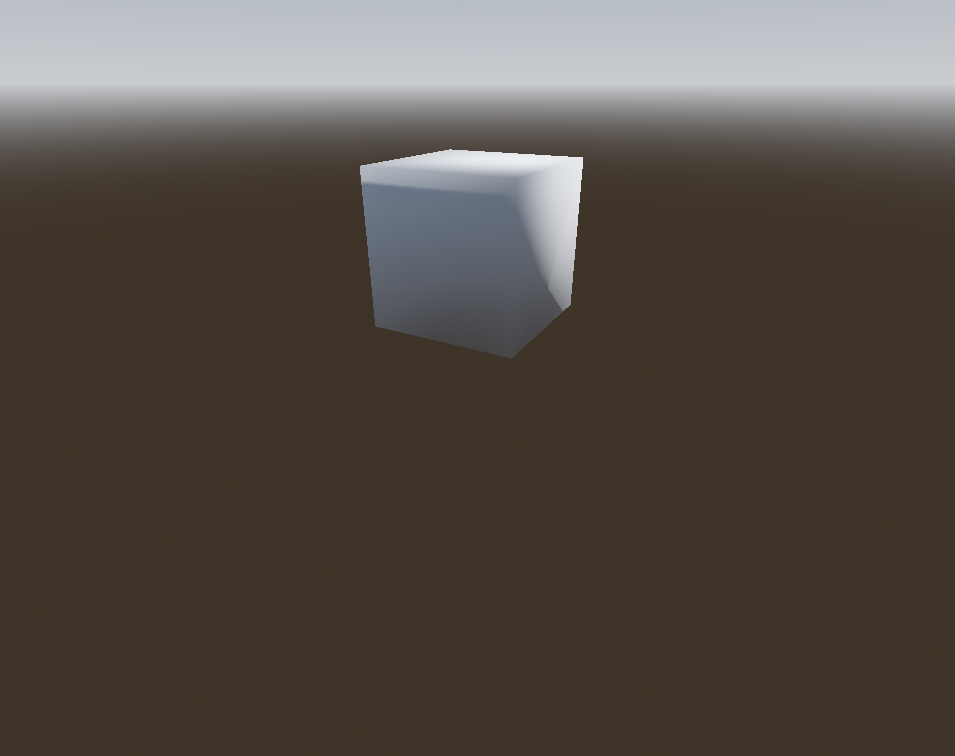
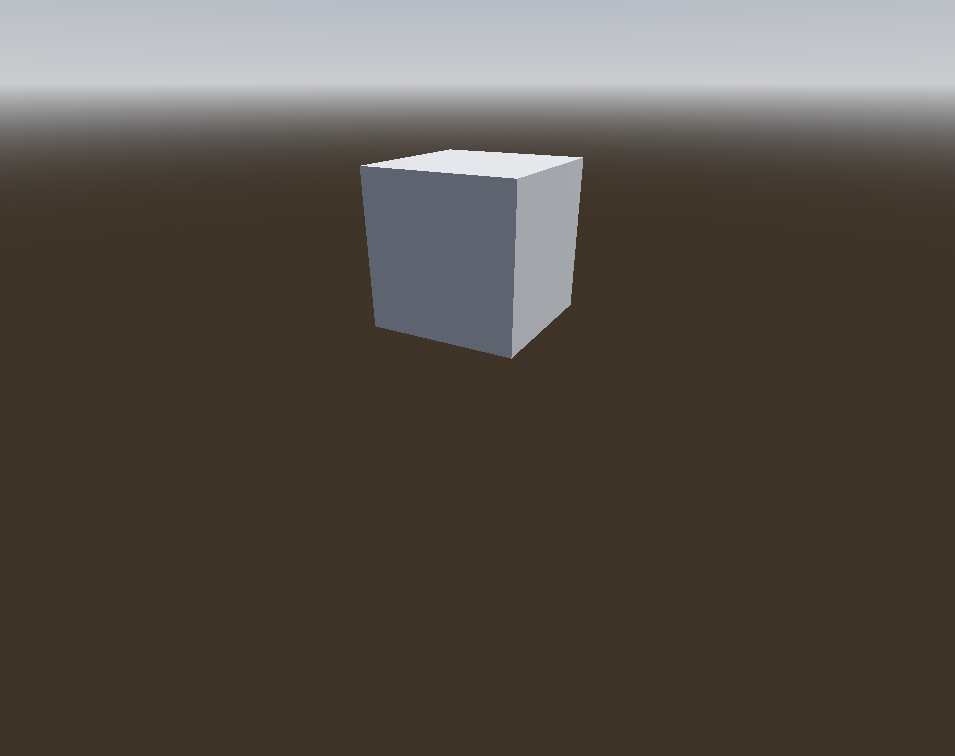
fix(godot-ref): draw a SoftBody3D as the editor does, whatever its disable_mode
KEEP_ACTIVE kept a frozen SoftBody3D in the physics space, where Jolt
rewrote its normals each frame (jolt_soft_body_3d.cpp:612-653). The editor
never does (soft_body_3d.cpp:459-467), so the reference sets REMOVE first.

Also replace the 2048x2048 EXR in the texture-array processor test with a
small atlas written in memory. Decoding the real bake took about 0.6 s a
test and outlasted the 5 s limit when the suite loaded the machine.

Changed region(s): [[0.3644, 0.213, 0.6073, 0.4868]]

diff --git a/packages/textscene-core/src/resources/processors/createTexture2DArrayProcessor.test.ts b/packages/textscene-core/src/resources/processors/createTexture2DArrayProcessor.test.ts
@@ -8,10 +8,18 @@ import * as THREE from 'three';
 import { FileEventBus } from '../FileEventBus';
 import { ResourceEventBus } from '../ResourceEventBus';
 import { DependencyGraph } from '../dependencyGraph';
-import { ragdollBytes } from '../testing/ragdollBake';
+import { smallExrBytes } from '../testing/smallExr';
 import { createTexture2DArrayProcessor } from './createTexture2DArrayProcessor';
 
-const ATLAS_PATH = 'res://ragdoll_physics.exr';
+const ATLAS_PATH = 'res://bake.exr';
+const ATLAS_WIDTH = 8;
+const ATLAS_HEIGHT = 4;
+/** A half-float texel Godot reads back exactly, at column 3 of the row second from the bottom. */
+const MARKED_TEXEL = [0.2568359375, 0.13037109375, 0.10784912109375, 1] as const;
+
+/** An atlas that is black except for the marked texel. */
+const atlasBytes = () =>
+  smallExrBytes(ATLAS_WIDTH, ATLAS_HEIGHT, (x, y) => (x === 3 && y === 1 ? MARKED_TEXEL : [0, 0, 0, 1]));
 const SIDECAR_PATH = `${ATLAS_PATH}.import`;
 
 /** The sidecar a bake writes (`lightmap_gi.cpp:847-866`), with `vertical` layers stacked down the image. */
@@ -39,28 +47,29 @@ function harness(files: Record<string, ArrayBuffer | string>) {
 describe('createTexture2DArrayProcessor', () => {
   it('cuts the atlas into the layers its sidecar names', async () => {
     const texture = await harness({
-      [ATLAS_PATH]: ragdollBytes('ragdoll_physics.exr'),
+      [ATLAS_PATH]: await atlasBytes(),
       [SIDECAR_PATH]: sidecar(2),
     }).load();
     expect(texture).toBeInstanceOf(THREE.DataArrayTexture);
-    expect(texture.image).toMatchObject({ width: 2048, height: 1024, depth: 2 });
+    expect(texture.image).toMatchObject({ width: ATLAS_WIDTH, height: ATLAS_HEIGHT / 2, depth: 2 });
   });
 
   it('keeps the HDR values as half floats, sampled linearly with no colour conversion', async () => {
     const texture = await harness({
-      [ATLAS_PATH]: ragdollBytes('ragdoll_physics.exr'),
+      [ATLAS_PATH]: await atlasBytes(),
       [SIDECAR_PATH]: sidecar(1),
     }).load();
     expect(texture.type).toBe(THREE.HalfFloatType);
     expect(texture.colorSpace).toBe(THREE.NoColorSpace);
     expect(texture.magFilter).toBe(THREE.LinearFilter);
-    const red = (texture.image.data as Uint16Array)[(40 * 2048 + 100) * 4]!;
-    expect(THREE.DataUtils.fromHalfFloat(red)).toBe(0.2568359375);
+    // The marked texel is second from the bottom, so third from the top.
+    const red = (texture.image.data as Uint16Array)[(2 * ATLAS_WIDTH + 3) * 4]!;
+    expect(THREE.DataUtils.fromHalfFloat(red)).toBe(MARKED_TEXEL[0]);
   });
 
   it('records the sidecar read, so a re-bake that changes the layer count reloads the atlas', async () => {
     const { load, dependencies } = harness({
-      [ATLAS_PATH]: ragdollBytes('ragdoll_physics.exr'),
+      [ATLAS_PATH]: await atlasBytes(),
       [SIDECAR_PATH]: sidecar(1),
     });
     await load();
@@ -68,13 +77,11 @@ describe('createTexture2DArrayProcessor', () => {
   });
 
   it('fails an atlas with no sidecar, which Godot imports as no texture array (error case)', async () => {
-    await expect(harness({ [ATLAS_PATH]: ragdollBytes('ragdoll_physics.exr') }).load()).rejects.toThrow(
-      'as a texture array'
-    );
+    await expect(harness({ [ATLAS_PATH]: await atlasBytes() }).load()).rejects.toThrow('as a texture array');
   });
 
   it('fails an atlas too small for its layers (edge case)', async () => {
-    const files = { [ATLAS_PATH]: ragdollBytes('ragdoll_physics.exr'), [SIDECAR_PATH]: sidecar(4096) };
+    const files = { [ATLAS_PATH]: await atlasBytes(), [SIDECAR_PATH]: sidecar(4096) };
     await expect(harness(files).load()).rejects.toThrow('too small for 1x4096 layers');
   });
 });

diff --git a/docs/comparison/index.html b/docs/comparison/index.html
@@ -5858,7 +5858,7 @@ tr:last-child td{border-bottom:0}
 <div class="tablewrap"><table><thead><tr><th>Rule</th><th>Reports</th><th>Severity</th></tr></thead><tbody><tr><td><code>binary-resource-reference</code> (all nodes)</td><td><code>binary-resource-reference</code></td><td>info</td></tr><tr><td><code>valid-node3d-visibility</code> (type-family match)</td><td><code>valid-node3d-visibility</code></td><td>error</td></tr><tr><td><code>valid-softbody3d-mesh</code> (type-family match)</td><td><code>valid-softbody3d-mesh</code></td><td>warning</td></tr><tr><td><code>valid-geometryinstance3d-visibility-range</code> (type-family match)</td><td><code>geometryinstance3d-visibility-range-end-before-begin</code></td><td>warning</td></tr><tr><td></td><td><code>geometryinstance3d-visibility-range-begin-fade-without-margin</code></td><td>warning</td></tr><tr><td></td><td><code>geometryinstance3d-visibility-range-end-fade-without-margin</code></td><td>warning</td></tr></tbody></table></div>
 <p>The lenient parser reuses MeshInstance3D's parse. The scene cull measures the node by its mesh's box at rest, so its visibility range still decides its visibility dependants. An out-of-range <code>simulation_precision</code> or a non-boolean <code>ray_pickable</code> parses without complaint and has no effect, since nothing simulates it.</p>
 <h3>Known limitations</h3>
-<ul><li><strong>Needs runtime</strong> Godot draws and culls the mesh as the simulation moves it, but the previewer keeps the rest mesh and its box.</li></ul></div>
+<ul><li><strong>Needs runtime</strong> Godot draws and culls the mesh as the simulation moves it, and shades it with smooth normals, but the previewer keeps the rest mesh, its box and its authored normals.</li></ul></div>
     </article>
     <article class="sheet" data-type="SpinBox" hidden>
       <header class="sheet-head">

diff --git a/packages/textscene-core/src/resources/testing/smallExr.ts b/packages/textscene-core/src/resources/testing/smallExr.ts
@@ -1,0 +1,34 @@
+/**
+ * A small half-float OpenEXR atlas written in memory, for a test that needs the decoded values
+ * and not a real bake. Decoding the vendored 2048x2048 atlas takes about 0.6 s a test, which
+ * outlasts the 5 s limit when the whole suite loads the machine.
+ */
+
+import * as THREE from 'three';
+import { EXRExporter, NO_COMPRESSION } from 'three/addons/exporters/EXRExporter.js';
+
+/** One texel's red, green, blue and alpha. */
+export type Texel = readonly [number, number, number, number];
+
+/** `texelAt` names each texel by its column and by its row from the bottom, as a DataTexture stores them. */
+export async function smallExrBytes(
+  width: number,
+  height: number,
+  texelAt: (x: number, y: number) => Texel
+): Promise<ArrayBuffer> {
+  const data = new Float32Array(width * height * 4);
+  for (let y = 0; y < height; y++) {
+    for (let x = 0; x < width; x++) {
+      texelAt(x, y).forEach((value, channel) => {
+        data[(y * width + x) * 4 + channel] = value;
+      });
+    }
+  }
+  const texture = new THREE.DataTexture(data, width, height, THREE.RGBAFormat, THREE.FloatType);
+  const exr = await new EXRExporter().parse(texture, {
+    type: THREE.HalfFloatType,
+    // The default ZIP packs 16 rows a block and corrupts an image shorter than that.
+    compression: NO_COMPRESSION,
+  });
+  return exr.buffer.slice(exr.byteOffset, exr.byteOffset + exr.byteLength) as ArrayBuffer;
+}

diff --git a/packages/textscene-core/src/nodes/physics/3d/softbody3d/index.r3f.ts b/packages/textscene-core/src/nodes/physics/3d/softbody3d/index.r3f.ts
@@ -1,7 +1,8 @@
 /**
  * SoftBody3D draws its `mesh` as a MeshInstance3D does, since it derives from it
- * (`soft_body_3d.h:66`). The previewer runs no physics (ADR-0005), so the body stays at rest, and
- * the cull keeps the rest mesh's box. Godot overwrites that box with the simulated points'
+ * (`soft_body_3d.h:66`). The previewer runs no physics (ADR-0005), so the body stays at rest. Its
+ * box is the mesh's, as `MeshInstance3D::get_aabb` answers (`mesh_instance_3d.cpp:230-233`). Godot
+ * replaces it with the simulated points' box only once a physics step runs
  * (`soft_body_3d.cpp:100-101,450-452`).
  */
 

diff --git a/packages/textscene-core/src/nodes/physics/3d/softbody3d/comparison.md b/packages/textscene-core/src/nodes/physics/3d/softbody3d/comparison.md
@@ -47,4 +47,4 @@ The lenient parser reuses MeshInstance3D's parse. The scene cull measures the no
 
 ## Known limitations
 
-- **Needs runtime** Godot draws and culls the mesh as the simulation moves it, but the previewer keeps the rest mesh and its box.
+- **Needs runtime** Godot draws and culls the mesh as the simulation moves it, and shades it with smooth normals, but the previewer keeps the rest mesh, its box and its authored normals.
